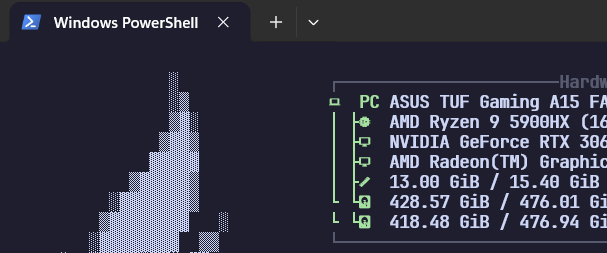
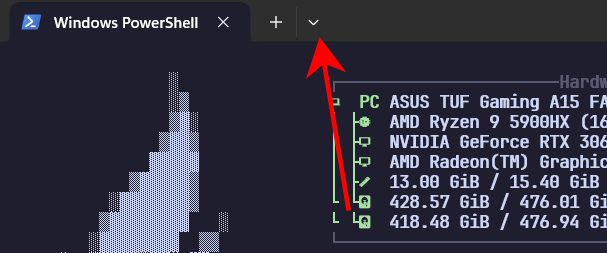
next step

Changed region(s): [[0.5041, 0.1383, 0.5931, 0.83]]

diff --git a/README.md b/README.md
@@ -4,19 +4,19 @@ Give your default Windows Terminal a clean, customized look with a custom font, 
 
 ## Preview
 
-[IMAGE]
+<img src='img-files/Preview.png' width=800>
 
 ## Step 1: Configure Windows Terminal
 
 1. Open **Windows Terminal** or **PowerShell**.
 2. Click the arrow next to the tab bar to open the menu.
 
-   [IMAGE]
+   <img src='img-files/settings.png'><img src='img-files/settings-2.png'>
 
 3. Select **Settings**.
 4. Scroll to the bottom of the Settings sidebar and open the **JSON file**.
 
-   [IMAGE]
+   <img src='img-files/open-json.png'>
 
 5. Copy the configuration files provided in this repository into the appropriate locations, following the files and instructions in the repo.
 6. Download the font used by this setup and install it on your system.
